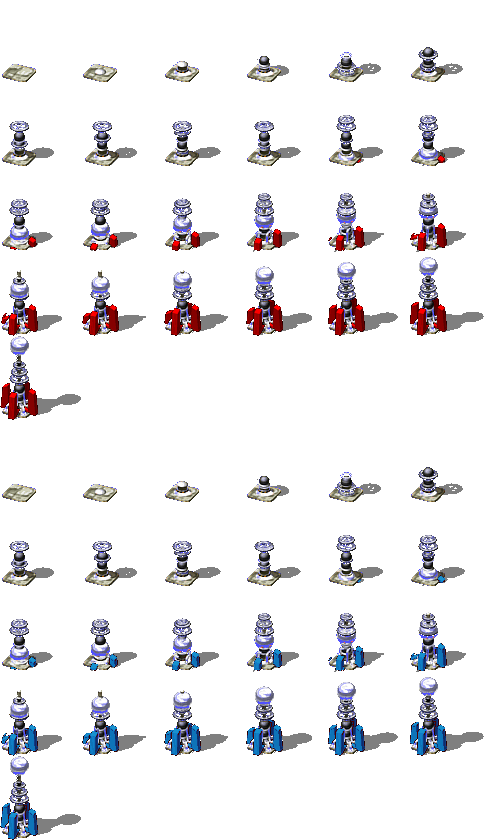
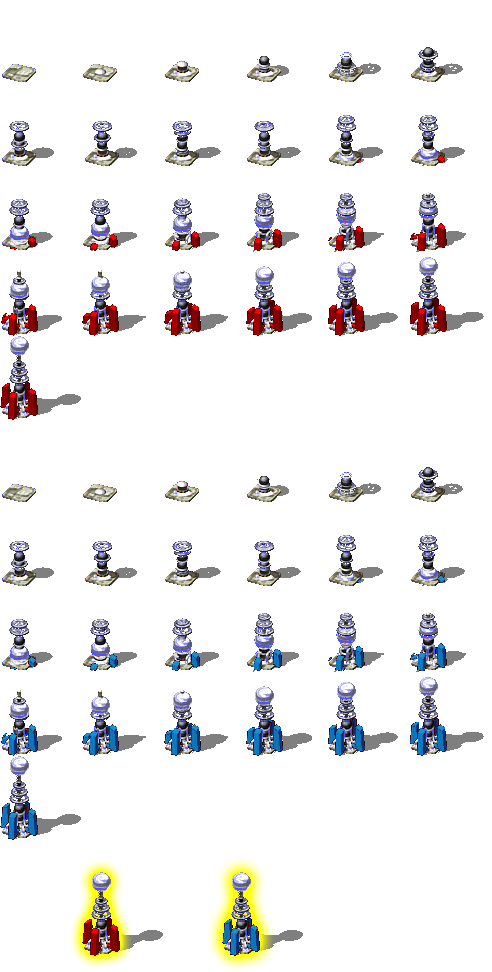
All buildings have Glow on Selection

diff --git a/Base/Motor2D/DefenseTarget.cpp b/Base/Motor2D/DefenseTarget.cpp
@@ -97,37 +97,6 @@ bool DefenseTarget::Update(float dt)
 	}
 	if (fromPlayer1)  // --- Player 1 --------------------------------
 	{
-
-		if (level == 0 && App->scenechange->IsChanging() == false)
-		{
-			SDL_Rect upgrade;
-			upgrade.x = 0;
-			upgrade.y = 34;
-			upgrade.w = 32;
-			upgrade.h = 20;
-			App->render->Blit(App->scene->upgrade_lvl, position.first - 30, position.second - 60, &upgrade);
-		}
-
-		if (level == 1 && App->scenechange->IsChanging() == false)
-		{
-			SDL_Rect upgrade;
-			upgrade.x = 36;
-			upgrade.y = 17;
-			upgrade.w = 32;
-			upgrade.h = 37;
-			App->render->Blit(App->scene->upgrade_lvl, position.first - 30, position.second - 60, &upgrade);
-		}
-
-		if (level == 2 && App->scenechange->IsChanging() == false)
-		{
-			SDL_Rect upgrade;
-			upgrade.x = 72;
-			upgrade.y = 0;
-			upgrade.w = 32;
-			upgrade.h = 54;
-			App->render->Blit(App->scene->upgrade_lvl, position.first - 30, position.second - 60, &upgrade);
-		}
-
 		if (upgrade == true && level <= 1) //upgrade
 		{
 			App->player1->gold -= upgrade_cost[level]; //pay costs
@@ -147,37 +116,6 @@ bool DefenseTarget::Update(float dt)
 	}
 	else if (!fromPlayer1) // --- Player 2 ---------------------------
 	{
-
-		if (level == 0 && App->scenechange->IsChanging() == false)
-		{
-			SDL_Rect upgrade;
-			upgrade.x = 0;
-			upgrade.y = 34;
-			upgrade.w = 32;
-			upgrade.h = 20;
-			App->render->Blit(App->scene->upgrade_lvl, position.first - 30, position.second - 60, &upgrade);
-		}
-
-		if (level == 1 && App->scenechange->IsChanging() == false)
-		{
-			SDL_Rect upgrade;
-			upgrade.x = 36;
-			upgrade.y = 17;
-			upgrade.w = 32;
-			upgrade.h = 37;
-			App->render->Blit(App->scene->upgrade_lvl, position.first - 30, position.second - 60, &upgrade);
-		}
-
-		if (level == 2 && App->scenechange->IsChanging() == false)
-		{
-			SDL_Rect upgrade;
-			upgrade.x = 72;
-			upgrade.y = 0;
-			upgrade.w = 32;
-			upgrade.h = 54;
-			App->render->Blit(App->scene->upgrade_lvl, position.first - 30, position.second - 60, &upgrade);
-		}
-
 		if (upgrade == true && level <= 1) //upgrade
 		{
 			App->player2->gold -= upgrade_cost[level]; //pay costs
@@ -195,7 +133,36 @@ bool DefenseTarget::Update(float dt)
 			App->render->Blit(App->scene->explosion_tex, position.first + 25, position.second + 25, &App->map->explosion_anim->GetCurrentFrame(dt));
 		}
 	}
+
+	if (fromPlayer1)
+	{
+		if (App->player1->currentUI == Player::CURRENT_UI::CURR_SELECTING_BUILDING && App->player1->GetSelectedBuilding() == this)
+		{
+			if (building->Finished())
+				Current_Animation = glow;
+		}
+		else
+		{
+			if (building->Finished())
+				Current_Animation = level1;
+		}
+	}
+	else
+	{
+		if (App->player2->currentUI == Player::CURRENT_UI::CURR_SELECTING_BUILDING && App->player2->GetSelectedBuilding() == this)
+		{
+			if (building->Finished())
+				Current_Animation = glow;
+		}
+		else
+		{
+			if (building->Finished())
+				Current_Animation = level1;
+		}
+	}
+
 	Building::Update(dt);
+
 	return true;
 }
 
@@ -217,11 +184,10 @@ bool DefenseTarget::Is_inRange(pair<int, int> pos, int &distance) {
 void DefenseTarget::LoadAnimations(bool isPlayer1, string path)
 {
 	building = building->LoadAnimation(path.data(), (isPlayer1) ? "red" : "blue");
-	level1 = level1->LoadAnimation(path.data(), (isPlayer1) ? "red" : "blue");
-	level1->speed = 10;
+	level1 = level1->LoadAnimation(path.data(), (isPlayer1) ? "blue_idle" : "red_idle");
+	glow = glow->LoadAnimation(path.data(), (isPlayer1) ? "blue_glow" : "red_glow"); 
 	building->speed = 10;
 	building->loop = false;
-	level1->loop = false;
 	Current_Animation = building;
 }
 

diff --git a/Base/Motor2D/CommandCenter.cpp b/Base/Motor2D/CommandCenter.cpp
@@ -52,36 +52,6 @@ bool CmdCenter::Update(float dt)
 
 	if (fromPlayer1)
 	{
-		if (level == 0 && App->scenechange->IsChanging() == false)
-		{
-			SDL_Rect upgrade;
-			upgrade.x = 0;
-			upgrade.y = 34;
-			upgrade.w = 32;
-			upgrade.h = 20;
-			App->render->Blit(App->scene->upgrade_lvl, position.first - 30, position.second - 80, &upgrade);
-		}
-
-		if (level == 1 && App->scenechange->IsChanging() == false)
-		{
-			SDL_Rect upgrade;
-			upgrade.x = 36;
-			upgrade.y = 17;
-			upgrade.w = 32;
-			upgrade.h = 37;
-			App->render->Blit(App->scene->upgrade_lvl, position.first - 30, position.second - 80, &upgrade);
-		}
-
-		if (level == 2 && App->scenechange->IsChanging() == false)
-		{
-			SDL_Rect upgrade;
-			upgrade.x = 72;
-			upgrade.y = 0;
-			upgrade.w = 32;
-			upgrade.h = 54;
-			App->render->Blit(App->scene->upgrade_lvl, position.first - 30, position.second - 80, &upgrade);
-		}
-
 		if (health > 0) //if not destroyed
 		{
 			if (upgrade == true && level <= 1) //upgrade
@@ -114,38 +84,7 @@ bool CmdCenter::Update(float dt)
 	else if (!fromPlayer1)
 	{
 		if (health > 0) //if not destroyed
-		{
-
-			if (level == 0 && App->scenechange->IsChanging() == false)
-			{
-				SDL_Rect upgrade;
-				upgrade.x = 0;
-				upgrade.y = 34;
-				upgrade.w = 32;
-				upgrade.h = 20;
-				App->render->Blit(App->scene->upgrade_lvl, position.first - 30, position.second - 80, &upgrade);
-			}
-
-			if (level == 1 && App->scenechange->IsChanging() == false)
-			{
-				SDL_Rect upgrade;
-				upgrade.x = 36;
-				upgrade.y = 17;
-				upgrade.w = 32;
-				upgrade.h = 37;
-				App->render->Blit(App->scene->upgrade_lvl, position.first - 30, position.second - 80, &upgrade);
-			}
-
-			if (level == 2 && App->scenechange->IsChanging() == false)
-			{
-				SDL_Rect upgrade;
-				upgrade.x = 72;
-				upgrade.y = 0;
-				upgrade.w = 32;
-				upgrade.h = 54;
-				App->render->Blit(App->scene->upgrade_lvl, position.first - 30, position.second - 80, &upgrade);
-			}
-			
+		{			
 			if (upgrade == true && level <= 1) //upgrade
 			{
 				App->player2->gold -= upgrade_cost[level]; //pay costs
@@ -221,19 +160,20 @@ void CmdCenter::CleanUp()
 	damage_cast3.resize(0);
 
 	Building::CleanUp();
-
+	
 }
 
 void CmdCenter::LoadAnimations(bool isPlayer1, string path)
 {
 	building = building->LoadAnimation(path.data(), (isPlayer1) ? "red" : "blue");
-	level1 = level1->LoadAnimation(path.data(), (isPlayer1) ? "red_idle" : "blue_idle");
-	glow = glow->LoadAnimation(path.data(), (isPlayer1) ? "red_glow" : "blue_glow"); 
-	level1->speed = 10;
+	level1 = level1->LoadAnimation(path.data(), (isPlayer1) ? "blue_idle" : "red_idle");
+	glow = glow->LoadAnimation(path.data(), (isPlayer1) ? "blue_glow" : "red_glow"); 
+
 	building->speed = 10;
 	building->loop = false;
-	level1->loop = false;
+
 	Current_Animation = building;
+
 	offset = 5 * App->map->data.tile_height;
 }
 
